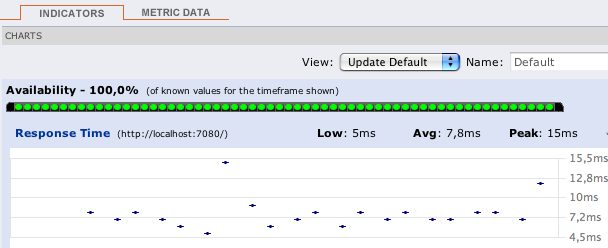
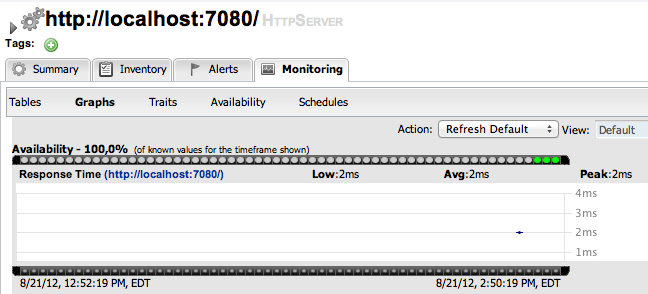
Many updates especially in the area of screen shots.

diff --git a/HowToWriteAnRhqPlugin/how_to.md b/HowToWriteAnRhqPlugin/how_to.md
@@ -355,26 +355,40 @@ To compile the plugin, go to the root of the plugin tree and do mvn -Pdev instal
 The dev mode allows maven to automatically deploy the plugin to a server instance as described on the Advanced Built Notes page on the RHQ-Wiki.
 When the server is running or starting up, you will see a line like this in the server log:
 
-    21:49:31,874 INFO  [ProductPluginDeployer] Deploying ON plugin HttpTest (HttpTest plugin)
+    14:23:31,558 INFO  [ProductPluginDeployer] Discovered agent plugin [HttpTest]
+    14:23:31,574 INFO  [ProductPluginDeployer] Deploying [1] new or updated agent plugins: [HttpTest]
+    14:23:31,665 INFO  [ResourceMetadataManagerBean] Updating resource type [HttpTest:HttpServer(id=0)]...
+    14:23:31,667 INFO  [ResourceMetadataManagerBean] Persisting new ResourceType [HttpTest:HttpServer(id=0)]...
+    14:23:31,791 INFO  [ProductPluginDeployer] Plugin metadata updates are complete for [1] plugins: [HttpTest]
 
-The next step is to make the plugin available to the agent. Remember that the agent is usually pulling plugins from the server when it is starting up. So if you have not yet started the agent, there is nothing to do for you. If the agent is already started, you can issue plugins update at the command prompt to update them to the latest versions of the server.
-If you now log into the GUI, go to the Autodiscovery portlet and import the new server into Inventory.
 
-![Auto-discovery portlet](assets/ad_portlet.png)
+The next step is to make the plugin available to the agent. Remember that the agent is usually pulling plugins from the server when it is starting up. So if you have not yet started the agent, there is nothing to do for you. If the agent is already started, you can issue `plugins update` at the command prompt to update them to the latest versions of the server.
+
+    snert$ bin/rhq-agent.sh
+    Listening for transport dt_socket at address: 8788
+    RHQ 4.5.0-SNAPSHOT [963a082] (Tue Aug 21 09:57:02 EDT 2012)
+    > plugins update
+    The plugin container has been stopped.
+    Updating plugins to their latest versions.
+    The plugin [HttpTest] has been updated at [rhq-httptest-plugin-4.5.0-SNAPSHOT.jar].
+    Completed updating the plugins to their latest versions.
+    The plugin container has been started.
+    > 
+
+If you now log into the GUI at [http://localhost:7080/]() and go to Inventory->Discovery Queue you import the new server into Inventory.
+
+![Discovery Queue](assets/discovery_queue.png)
 
 Next go to the resource browser, click on ‚Servers‘ and you can see the server ‚discovered‘ by our plugin:
 
 ![Servers in Inventory](assets/inventory_servers.png)
 
-Clicking on the server name or the little ‚M‘onitor icon leads you to the indicator charts, where (after some time) you can see the response time values:
+Clicking on the server name (the link) leads you to the details page for the resource. Clicking on Monitoring->Graphs brings you to the graphical metric display, where (after some time) you can see the response time values:
 
 ![Metrics display](assets/metrics_from_plugin.png)
 
-When you click on the Metric Data subtab, you can see the raw data for the server:
-
-![Tabular display of metrics](assets/tabular_data.png)
-
-On the top you see the numerical ResponseTime data, and in the lower section the server status as trait as expected.
+When you click on the Tables subtab, you can see the response time data for the server in a tabular way,
+while the trait for the status code can be found on the Traits subtab.
 
 ## What do we have now? ##
 
@@ -386,6 +400,8 @@ I have made the source code of those articles available as zip archive, that you
 
 We have just built our first RHQ plugin. This was working great, but hardcoding the target URL is not really elegant. I will now show you how to make the target URLs configurable from the GUI.
 To do this we need to reshuffle things a little: We will have a generic Server ‚HttpCheck‘ that servers as parent for the individual http-servers that we want to monitor. Those will live as Services under that Server. In the Server inventory we will add the possibility to manually add new http servers on the go.
+
+Note: before you continue, go to Administration->Agent plugins and remove the old plugin.
 
 ![RHQ Architecture](assets/manual_add.png)
 
@@ -475,41 +491,47 @@ The HttpDiscoveryComponent from above only got some minor adjustments to cater f
 
 ### Service level: HttpServiceDiscoveryComponent ###
 
-The `HttpServiceDiscoveryComponent` is more interesting, as we no longer have the hard coded keys, but we get the URL passed in from the GUI when the user is adding a new one.
+The `HttpServiceDiscoveryComponent` is more interesting, as we no longer have the hard coded keys, but we get the URL passed in from the GUI when the user is adding a new one. Here you will also see a new facet (`ManualAddFacet`), that has been introduced to support `supportsManualAdd=“true“` from the plugin descriptor.
+Let's start with the basic implementation of `ResourceDiscoveryComponent`:
 
     public class HttpServiceDiscoveryComponent implements
-       ResourceDiscoveryComponent<HttpServiceComponent>
+       ResourceDiscoveryComponent, ManualAddFacet
     {
        public Set<DiscoveredResourceDetails> discoverResources
-            (ResourceDiscoveryContext<HttpServiceComponent> context) throws
+            (ResourceDiscoveryContext context) throws
              InvalidPluginConfigurationException, Exception
        {
-          Set<DiscoveredResourceDetails> result = new
-              HashSet<DiscoveredResourceDetails>(); 
-          ResourceType resourceType = context.getResourceType();
-          
-This basically the same code that we already know. The interesting part starts now:
+          return Collections.emptySet();
+       }
+       
+This just returns an empty set, as we don't want to automatically discovery these kinds of resources.
+The implementation of the `ManualAddFacet`then looks like this:
+       
+    @Override
+    public DiscoveredResourceDetails discoverResource(Configuration pluginConfiguration,
+        ResourceDiscoveryContext context) throws InvalidPluginConfigurationException {
 
-    List<Configuration> childConfigs = context.getPluginConfigurations();
-    for (Configuration childConfig : childConfigs) { 
-       String key = childConfig.getSimpleValue(“url“, null);
-       if (key == null)
-          throw new InvalidPluginConfigurationException( „No URL provided“);
-
-We get a list of plugin configurations passed from the context through which we loop to determine the passed parameters. As we have only one – the url – this is simple.
-If there is no url provided provided we complain (actually that should never happen, as we marked the property as required in the plugin descriptor above).
-
-         String name = key;
-         String description = „Http server at „ + key;
-         DiscoveredResourceDetails detail = new 	   
-               DiscoveredResourceDetails( resourceType, key, name,
-               null, description, childConfig, null );
-         result.add(detail);
-      }
-      return result;
+        ResourceType resourceType = context.getResourceType();
+        String key = pluginConfiguration.getSimpleValue("url", null);
+        if (key == null)
+            throw new InvalidPluginConfigurationException("No URL provided");
+        String name = key;
+        String description = "Http server at " + key;
+        DiscoveredResourceDetails detail = new DiscoveredResourceDetails(
+            resourceType, 
+            key, 
+            name, 
+            null,
+            description, 
+            pluginConfiguration, 
+            null);
+        return detail;
     }
     
-The remainder of the is the same as we know it already from above.
+This methods gets one create request at a time passed in. We check if there is some url given
+at all (in fact the definition in the plugin descriptor prevents empty properties already, but
+it is good to check anyway) and then just creates a new `DiscoveredResourceDetails` object, which
+is then returned.
 
 ### Change in plugin components ###
 
@@ -627,19 +649,20 @@ We have seen the MeasurementFacet in the previous articles. In this section I wi
 
 ## ConfigurationFacet ##
 
-This facet indicates that the plugin is able to read and write the configuration of a managed resource. It goes hand in hand with <resource-configuration> in the plugin descriptor. As I've stated above, the code to create a new managed resource from scratch needs to be on the parent resource, so it is a good idea to write plugins that use the ConfigurationFacet in a way that they have a parent resource for the subsystem and children for individual resources. You can find an example for this in the JbossAS plugin when looking at the JbossMessaging subsystem and the individual JMS destinations.
+This facet indicates that the plugin is able to read and write the configuration of a managed resource. It goes hand in hand with `<resource-configuration> in the plugin descriptor. As I've stated above, the code to create a new managed resource from scratch needs to be on the parent resource, so it is a good idea to write plugins that use the ConfigurationFacet in a way that they have a parent resource for the subsystem and children for individual resources. You can find an example for this in the JbossAS plugin when looking at the JbossMessaging subsystem and the individual JMS destinations.
 
 ## OperationFacet ##
 
-An operation allows you to invoke functionality on the managed resource. This could be a restart operation or whatever you want to invoke on a target. Operations are described in <operation> elements in the plugin descriptor. They can have argument and return values.
+An operation allows you to invoke functionality on the managed resource. This could be a restart operation or whatever you want to invoke on a target. Operations are described in `<operation>` elements in the plugin descriptor. They can have argument and return values.
 
 ## ContentFacet ##
 
-This facet allows the uploading content like files or archives into the managed resource. That way it is possible to centrally manage software distribution into managed resources. There exists a <content> element as counterpart.
+This facet allows the uploading content like files or archives into the managed resource. That way it is possible to centrally manage software distribution into managed resources. There exists a `<content>` element as counterpart.
 
 ## Events ##
 
-Events are a way to inject asynchronous data into the RHQ server. They are a little like traits. The difference here is that one Event definition can match multiple event sources and that the number of Events that are delivered to the RHQ server can be different each time the polling for Events is called.
+Events are a way to inject asynchronous data into the RHQ server. One example of Events within RHQ
+is the gathering and parsing of logfiles. Events are a little bit like traits. The difference here is that one Event definition can match multiple event sources and that the number of Events that are delivered to the RHQ server can be different each time the polling for Events is called.
 Events are processed by EventPollers – a method that gets called at a regular interval by the PluginContainer and which delivers one or more Events back into the system.
 Two samples for EventPollers are the Logfile pollers, that check for new matching lines in logfiles and the snmptrapd plugin that I will describe now.
 The plugin descriptor is mostly as we know it already. There is now one new element:
@@ -690,6 +713,15 @@ The other method to implement is `poll()`:
       }
 
 To create one Event object you just instantiate it. The needed type can just be obtained by a call to `getEventType()`.
+
+# Tools: Plugin generator #
+
+Above you have seen that writing a plugin is not that hard, but that it still needs a lot of work to
+get the basic environment like plugin descriptor skeleton, maven-pom-file and directory structure in place.
+RHQ project has a plugin generator, which asks you some questions and will then generate a plugin
+with some dummy values, which you can then load into your development environment and continue
+working with.
+
 
 
 # Tools : Standalone plugin container #
